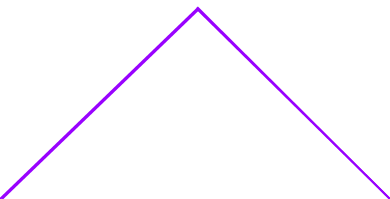
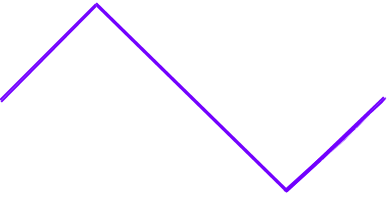
Renamed a lines, added WinLine loop generation and removed line by line creation

diff --git a/SuperSecretProject/src/GUI.java b/SuperSecretProject/src/GUI.java
@@ -58,6 +58,7 @@ public class GUI {
 		frame.setDefaultCloseOperation(JFrame.EXIT_ON_CLOSE);
 		frame.setTitle("Mikey's Not So Wild Slots");
 		frame.setBackground(new Color(250, 78, 91));
+		frame.setResizable(false);
 
 		JPanel mainScreen = new JPanel();
 		mainScreen.setBackground(new Color(46, 139, 87));
@@ -185,100 +186,22 @@ public class GUI {
 		//Panels used to show win lines with an OverlayLayout manager
 		JPanel winLinePanel = new JPanel();
 		winLinePanel.setLayout(null);
-		winLinePanel.setBounds(215, 10, 450, 460);
+		winLinePanel.setBounds(283, 264, 390, 200);
 		winLinePanel.setOpaque(false);
 		
+		JLabel[] winLineArray = new JLabel[10];
+		for(int i = 0; i < 10; i++){
+			winLineArray[i] = new JLabel();
+			winLineArray[i].setIcon(new ImageIcon("line_"+String.valueOf(i)+".png"));
+			winLineArray[i].setBounds(34, 127, 390, 200);
+			winLineArray[i].setVisible(false);	
+			winLinePanel.add(winLineArray[i]);
+		}
 		
-		
-		JLabel winLine1 = new JLabel();
-		winLine1.setIcon(new ImageIcon("line_1.png"));
-		winLine1.setBounds(34, 133, 390, 5);
-		winLine1.setVisible(false);
-
-		JLabel winLine2 = new JLabel();
-		winLine2.setIcon(new ImageIcon("line_1.png"));
-		winLine2.setBounds(34, 228, 390, 5);
-		winLine2.setVisible(false);
-
-		JLabel winLine3 = new JLabel();
-		winLine3.setIcon(new ImageIcon("line_1.png"));
-		winLine3.setBounds(34, 323, 390, 5);
-		winLine3.setVisible(false);
-		
-		JLabel winLine4 = new JLabel();
-		winLine4.setIcon(new ImageIcon("line_4.png"));
-		winLine4.setBounds(34, 133, 390, 200);
-		winLine4.setVisible(false);
-		
-		JLabel winLine5 = new JLabel();
-		winLine5.setIcon(new ImageIcon("line_5.png"));
-		winLine5.setBounds(32, 127, 390, 200);
-		winLine5.setVisible(false);
-		
-		JLabel winLine6 = new JLabel();
-		winLine6.setIcon(new ImageIcon("line_6.png"));
-		winLine6.setBounds(34, 127, 390, 200);
-		winLine6.setVisible(false);
-		
-		JLabel winLine7 = new JLabel();
-		winLine7.setIcon(new ImageIcon("line_7.png"));
-		winLine7.setBounds(34, 127, 390, 200);
-		winLine7.setVisible(false);
-		
-		JLabel winLine8 = new JLabel();
-		winLine8.setIcon(new ImageIcon("line_8.png"));
-		winLine8.setBounds(34, 127, 390, 200);
-		winLine8.setVisible(false);
-		
-		JLabel winLine9 = new JLabel();
-		winLine9.setIcon(new ImageIcon("line_9.png"));
-		winLine9.setBounds(34, 127, 390, 200);
-		winLine9.setVisible(false);
-		
-		JLabel winLine10 = new JLabel();
-		winLine10.setIcon(new ImageIcon("line_10.png"));
-		winLine10.setBounds(34, 127, 390, 200);
-		winLine10.setVisible(false);
-		
-		winLinePanel.add(winLine1);
-		winLinePanel.add(winLine2);
-		winLinePanel.add(winLine3);
-		winLinePanel.add(winLine4);
-		winLinePanel.add(winLine5);
-		winLinePanel.add(winLine6);
-		winLinePanel.add(winLine7);
-		winLinePanel.add(winLine8);	
-		winLinePanel.add(winLine9);
-		winLinePanel.add(winLine10);
-
-
-
-
-
-
 		
 		holdingPanel.add(winLinePanel);
 		holdingPanel.add(cardPanel);
-		
-		JLabel[] winlineArray = new JLabel[10];
-		winlineArray[0] = winLine1;
-		winlineArray[1] = winLine2;
-		winlineArray[2] = winLine3;
-		winlineArray[3] = winLine4;
-		winlineArray[4] = winLine5;
-		winlineArray[5] = winLine6;
-		winlineArray[6] = winLine7;
-		winlineArray[7] = winLine8;
-		winlineArray[8] = winLine9;
-		winlineArray[9] = winLine10;
-
-
-
-
-
-
-
-		
+			
 		
 		JLabel lblWinOrLoseAmount = new JLabel("winOrLoseAmount");
 		lblWinOrLoseAmount.setText("Welcome, good luck!");
@@ -304,7 +227,7 @@ public class GUI {
 					worker.cancel(true);
 				}
 				autoSpinner.setValue(1);
-				worker = new Worker(labels, lblWinOrLoseAmount, lblBalance,	autoSpinner, (Integer) winLinesSpinner.getValue(), (double) winStakeSpinner.getValue(), winlineArray);
+				worker = new Worker(labels, lblWinOrLoseAmount, lblBalance,	autoSpinner, (Integer) winLinesSpinner.getValue(), (double) winStakeSpinner.getValue(), winLineArray);
 				worker.execute();
 			}
 		});
@@ -317,7 +240,7 @@ public class GUI {
 				if (worker != null) {
 					worker.cancel(true);
 				}
-				worker = new Worker(labels, lblWinOrLoseAmount, lblBalance,	autoSpinner, (Integer) winLinesSpinner.getValue(), (double) winStakeSpinner.getValue(), winlineArray);
+				worker = new Worker(labels, lblWinOrLoseAmount, lblBalance,	autoSpinner, (Integer) winLinesSpinner.getValue(), (double) winStakeSpinner.getValue(), winLineArray);
 				worker.execute();
 			}
 		});

diff --git a/SuperSecretProject/src/RandomiseWheels.java b/SuperSecretProject/src/RandomiseWheels.java
@@ -49,7 +49,7 @@ public class RandomiseWheels {
 	public Symbols[] generateFirstWheel(){
 		Symbols[] wheel = new Symbols[100];
 		for(int i = 0; i < wheel.length; i++){
-			 if (isBetween(i, 0, 34)) {
+			 if (isBetween(i, 0, 99)) {
 				wheel[i] = Symbols.TEN;
 			}
 		else if (isBetween(i, 35, 64 )){
@@ -80,7 +80,7 @@ public class RandomiseWheels {
 	public Symbols[] generateSecondWheel(){
 		Symbols[] wheel = new Symbols[100];
 		for(int i = 0; i < wheel.length; i++){
-			 if (isBetween(i, 0, 34)) {
+			 if (isBetween(i, 0, 99)) {
 				wheel[i] = Symbols.TEN;
 			}
 		else if (isBetween(i, 35, 64 )){
@@ -111,7 +111,7 @@ public class RandomiseWheels {
 	public Symbols[] generateThirdWheel(){
 		Symbols[] wheel = new Symbols[100];
 		for(int i = 0; i < wheel.length; i++){
-			 if (isBetween(i, 0, 34)) {
+			 if (isBetween(i, 0, 99)) {
 				wheel[i] = Symbols.TEN;
 			}
 		else if (isBetween(i, 35, 64 )){
